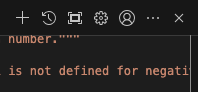
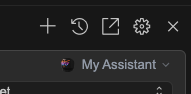
update user settings page

diff --git a/gui/src/pages/config/UserSettingsForm.tsx b/gui/src/pages/config/UserSettingsForm.tsx
@@ -146,7 +146,7 @@ export function UserSettingsForm() {
                       readResponseTTS: !readResponseTTS,
                     })
                   }
-                  text="Text to Speech Output"
+                  text="Text-to-Speech Output"
                 />
 
                 {/* <ToggleSwitch
@@ -208,6 +208,20 @@ export function UserSettingsForm() {
                   /> */}
 
                 <label className="flex items-center justify-between gap-3">
+                  <span className="text-left">Font Size</span>
+                  <NumberInput
+                    value={fontSize}
+                    onChange={(val) =>
+                      handleUpdate({
+                        fontSize: val,
+                      })
+                    }
+                    min={7}
+                    max={50}
+                  />
+                </label>
+
+                <label className="flex items-center justify-between gap-3">
                   <span className="line-clamp-1 text-left">
                     Multiline Autocompletions
                   </span>
@@ -226,20 +240,6 @@ export function UserSettingsForm() {
                     <option value="always">Always</option>
                     <option value="never">Never</option>
                   </Select>
-                </label>
-
-                <label className="flex items-center justify-between gap-3">
-                  <span className="text-left">Font Size</span>
-                  <NumberInput
-                    value={fontSize}
-                    onChange={(val) =>
-                      handleUpdate({
-                        fontSize: val,
-                      })
-                    }
-                    min={7}
-                    max={50}
-                  />
                 </label>
 
                 <form

diff --git a/docs/sidebars.js b/docs/sidebars.js
@@ -128,7 +128,6 @@ const sidebars = {
         },
       ],
     },
-    "customize/settings",
     {
       type: "link",
       label: "Reference",

diff --git a/docs/docs/customize/deep-dives/settings.md b/docs/docs/customize/deep-dives/settings.md
@@ -1,0 +1,34 @@
+---
+title: User Settings Page
+description: Reference for Adjusting User-Specific Settings
+keywords: [config, settings, configuration, customize, customization, sidebar]
+---
+
+# The User Settings Page
+
+The **User Settings page** can be accessed by clicking the gear icon in the header of the Continue sidebar.
+
+![slash-commands](/img/header-buttons.png)
+
+Which takes you to this page:
+
+![User Settings Page](/img/settings-page.png)
+
+Below that, the following settings which are not part of a configuration file are available:
+
+- `Show Session Tabs`: If on, displays tabs above the chat as an alternative way to organize and access your sessions. Off by default
+- `Wrap Codeblocks`: If on, enables text wrapping in code blocks. Off by default.
+- `Show Chat Scrollbar`: If on, enables a scrollbar in the chat window. Off by default.
+- `Text-to-Speech Output`: If on, reads LLM responses aloud with TTS. Off by default.
+- `Enable Session Titles`: If on, generates summary titles for each chat session after the first message, using the current Chat model. On by default.
+- `Format Markdown`: If off, shows responses as raw text. On by default.
+- `Allow Anonymous Telemetry`: If on, allows Continue to send anonymous telemetry. **On** by default.
+- `Enable Indexing`: Enables indexing of the codebase for the @codebase and @code context providers. **On** by default.
+- `Font Size`: Specifies base font size for UI elements
+- `Multiline Autocompletions`: Controls multiline completions for autocomplete. Can be set to `always`, `never`, or `auto`. Defaults to `auto`
+- `Disable autocomplete in files`: List of comma-separated glob pattern to disable autocomplete in matching files. E.g., "\_/.md, \*/.txt"
+
+<!-- - `Use autocomplete cache`: If on, caches completions. -->
+<!-- - `Use Chromium for Docs Crawling`: Use Chromium to crawl docs locally. Useful if the default Cheerio crawler fails on sites that require JavaScript rendering. Downloads and installs Chromium to ~/.continue/.utils. Off by default -->
+<!-- - `Codeblock Actions Position`: Sets the position for the actions that show when hovering over codeblocks. Defaults to `top` -->
+<!-- - `Workspace prompts path`: Where to find Prompt Files in a workspace - replaces the default .continue/prompts -->

diff --git a/docs/docs/reference.md b/docs/docs/reference.md
@@ -477,28 +477,3 @@ models:
     roles:
       - autocomplete
 ```
-
-### Fully deprecated settings
-
-Some deprecated `config.json` settings are no longer stored in config and have been moved to be editable through the [User Settings Page](./customize/settings.md). If found in `config.json`, they will be migrated to the [User Settings Page](./customize/settings.md) and removed from `config.json`.
-
-- `allowAnonymousTelemetry`: This value will be migrated to the safest merged value (`false` if either are `false`).
-- `promptPath`: This value will override during migration.
-- `disableIndexing`: This value will be migrated to the safest merged value (`true` if either are `true`).
-- `disableSessionTitles`/`ui.getChatTitles`: This value will be migrated to the safest merged value (`true` if either are `true`). `getChatTitles` takes precedence if set to false
-- `tabAutocompleteOptions`
-  - `useCache`: This value will override during migration.
-  - `disableInFiles`: This value will be migrated to the safest merged value (arrays of file matches merged/deduplicated)
-  - `multilineCompletions`: This value will override during migration.
-- `experimental`
-  - `useChromiumForDocsCrawling`: This value will override during migration.
-  - `readResponseTTS`: This value will override during migration.
-- `ui` - all will override during migration
-
-  - `codeBlockToolbarPosition`
-  - `fontSize`
-  - `codeWrap`
-  - `displayRawMarkdown`
-  - `showChatScrollbar`
-
-  See [User Settings Page](./customize/settings.md) for more information about each option.

diff --git a/docs/docs/json-reference.md b/docs/docs/json-reference.md
@@ -405,7 +405,7 @@ Example
 
 ### Fully deprecated settings
 
-Some deprecated `config.json` settings are no longer stored in config and have been moved to be editable through the [User Settings Page](./customize/settings.md). If found in `config.json`, they will be migrated to the [User Settings Page](./customize/settings.md) and removed from `config.json`.
+Some deprecated `config.json` settings are no longer stored in config and have been moved to be editable through the [User Settings Page](./customize/deep-dives/settings.md). If found in `config.json`, they will be auto-migrated to User Settings and removed from `config.json`.
 
 - `allowAnonymousTelemetry`: This value will be migrated to the safest merged value (`false` if either are `false`).
 - `promptPath`: This value will override during migration.
@@ -426,4 +426,4 @@ Some deprecated `config.json` settings are no longer stored in config and have b
   - `displayRawMarkdown`
   - `showChatScrollbar`
 
-  See [User Settings Page](./customize/settings.md) for more information about each option.
+  See [User Settings Page](./customize/deep-dives/settings.md) for more information about each option.

diff --git a/docs/docs/customize/tutorials/running-continue-without-internet.md b/docs/docs/customize/tutorials/running-continue-without-internet.md
@@ -7,6 +7,6 @@ keywords: [no internet, air-gapped, local model]
 Continue can be run even on an air-gapped computer if you use a local model. Only a few adjustments are required for this to work.
 
 1. Download the latest .vsix file from the [Open VSX Registry](https://open-vsx.org/extension/Continue/continue) and [install it to VS Code](https://code.visualstudio.com/docs/editor/extension-marketplace#_install-from-a-vsix).
-2. Open the [User Settings Page](../settings.md) and turn off "Allow Anonymous Telemetry". This will stop Continue from attempting requests to PostHog for [anonymous telemetry](../../telemetry.md).
+2. Open the [User Settings Page](../deep-dives/settings.md) and turn off "Allow Anonymous Telemetry". This will stop Continue from attempting requests to PostHog for [anonymous telemetry](../../telemetry.md).
 3. Also in `config.json`, set the default model to a local model. You can available options [here](../model-providers/).
 4. Restart VS Code to ensure that the changes to `config.json` or `config.yaml` take effect.

diff --git a/docs/docs/yaml-migration.md b/docs/docs/yaml-migration.md
@@ -327,7 +327,7 @@ mcpServers:
 
 ## Deprecated configuration options
 
-Some deprecated `config.json` settings are no longer stored in config and have been moved to be editable through the [User Settings Page](./customize/settings.md) (Gear Icon). If found in `config.json`, they will be migrated to the [User Settings Page](./customize/settings.md) and removed from `config.json`.
+Some deprecated `config.json` settings are no longer stored in config and have been moved to be editable through the [User Settings Page](./customize/deep-dives/settings.md) (Gear Icon). If found in `config.json`, they will be auto-migrated to User Settings and removed from `config.json`.
 
 See the [JSON Config Reference](./json-reference#fully-deprecated-settings) for more information on fully deprecated options.
 

diff --git a/docs/docs/telemetry.md b/docs/docs/telemetry.md
@@ -26,6 +26,6 @@ The following usage information is collected and reported:
 
 ## How to Opt Out
 
-You can disable anonymous telemetry by visiting the [User Settings Page](./customize/settings.md) and toggling "Allow Anonymous Telemetry" off.
+You can disable anonymous telemetry by visiting the [User Settings Page](./customize/deep-dives/settings.md) and toggling "Allow Anonymous Telemetry" off.
 
 Alternatively in VS Code, you can disable telemetry through your VS Code settings by unchecking the "Continue: Telemetry Enabled" box (this will override the Settings Page settings). VS Code settings can be accessed with `File` > `Preferences` > `Settings` (or use the keyboard shortcut <kbd>ctrl</kbd> + <kbd>,</kbd> on Windows/Linux or <kbd>cmd</kbd> + <kbd>,</kbd> on macOS).

diff --git a/docs/docs/autocomplete/how-to-customize.md b/docs/docs/autocomplete/how-to-customize.md
@@ -5,6 +5,6 @@ keywords: [customize]
 sidebar_position: 5
 ---
 
-Continue offers a handful of settings to customize autocomplete behavior. For the most part, these options can be found in the [User Settings Page](../customize/settings.md).
+Continue offers a handful of settings to customize autocomplete behavior. Visit the [User Settings Page](../customize/deep-dives/settings.md) to manage these settings.
 
 For a comprehensive guide on all configuration options and their impacts, see the [Autocomplete deep dive](../customize/deep-dives/autocomplete.mdx).
